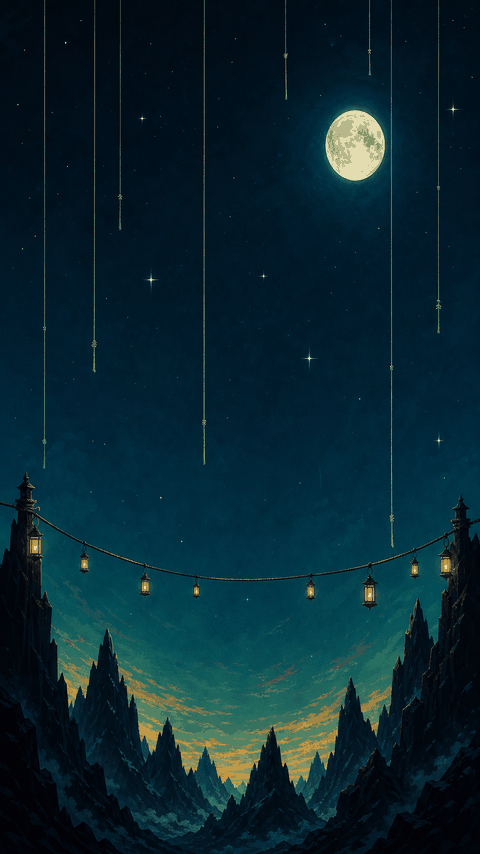
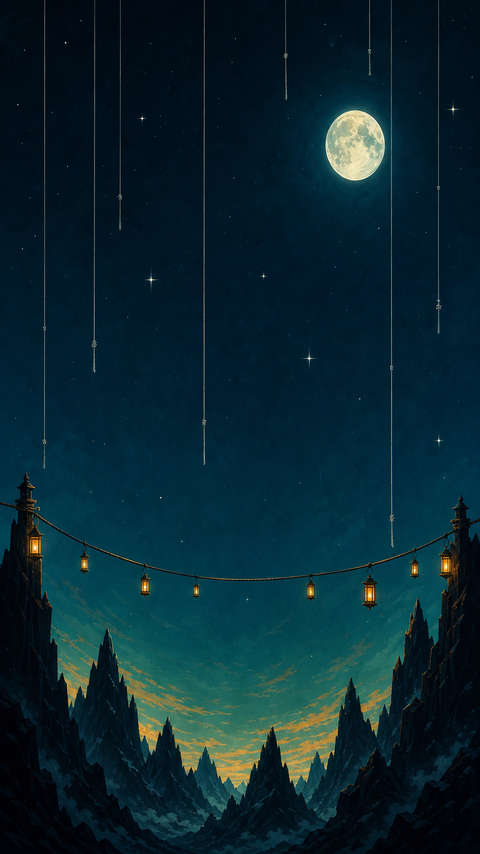
Polish retention and tip overlays to match premium UI
Replace stretched panel/oval buttons with solid rounded graphics so
overlays no longer glow or bleed the menu underneath.

diff --git a/src/game/ui/RetentionOverlay.ts b/src/game/ui/RetentionOverlay.ts
@@ -12,9 +12,20 @@ import {
 import { WEEKLY_SHARDS_NEEDED } from '@/content/retention';
 import { getSave } from '@/data/save';
 
+type ActionBtn = {
+  g: Phaser.GameObjects.Graphics;
+  label: Phaser.GameObjects.Text;
+  zone: Phaser.GameObjects.Zone;
+  x: number;
+  y: number;
+  w: number;
+  h: number;
+  relabel: () => string;
+  color: () => number;
+};
+
 /**
- * Retention hub — Zone hit targets (reliable on mobile) + compact copy
- * so body text never covers buttons.
+ * Retention hub — solid panel + graphics CTAs (no stretched oval blobs).
  */
 export class RetentionOverlay {
   private scene: Phaser.Scene;
@@ -23,8 +34,7 @@ export class RetentionOverlay {
   private feedback: Phaser.GameObjects.Text;
   private snap: RetentionSnapshot;
   private onChanged: () => void;
-  private actionLabels: { text: Phaser.GameObjects.Text; relabel: () => string }[] = [];
-  private actionBgs: { bg: Phaser.GameObjects.Image; tint: () => number }[] = [];
+  private actions: ActionBtn[] = [];
 
   constructor(scene: Phaser.Scene, onChanged: () => void) {
     this.scene = scene;
@@ -34,56 +44,65 @@ export class RetentionOverlay {
     this.root = scene.add.container(0, 0).setDepth(70).setVisible(false);
 
     const dim = scene.add
-      .rectangle(width / 2, height / 2, width, height, 0x000000, 0.72)
+      .rectangle(width / 2, height / 2, width, height, 0x020810, 0.78)
       .setInteractive();
     dim.on('pointerup', () => undefined);
 
-    const panel = scene.add
-      .image(width / 2, height / 2, 'ui-panel')
-      .setDisplaySize(width * 0.9, height * 0.82);
+    const pw = width * 0.88;
+    const ph = height * 0.78;
+    const px = width / 2;
+    const py = height / 2;
+    const panel = scene.add.graphics();
+    panel.fillStyle(0x0a1a28, 0.96);
+    panel.fillRoundedRect(px - pw / 2, py - ph / 2, pw, ph, 22);
+    panel.lineStyle(2, 0xffb347, 0.45);
+    panel.strokeRoundedRect(px - pw / 2, py - ph / 2, pw, ph, 22);
+    panel.fillStyle(0xffffff, 0.04);
+    panel.fillRoundedRect(px - pw / 2 + 10, py - ph / 2 + 10, pw - 20, 48, 14);
 
     const title = scene.add
-      .text(width / 2, height * 0.12, tf('retention'), {
+      .text(width / 2, height * 0.14, tf('retention'), {
         fontFamily: 'Fraunces, Georgia, serif',
         fontSize: '34px',
-        color: '#F7F3E8',
+        color: '#FFF8EC',
       })
       .setOrigin(0.5);
+    title.setShadow(0, 2, '#FFB347', 8, true, true);
 
     this.body = scene.add
-      .text(width / 2, height * 0.175, '', {
+      .text(width / 2, height * 0.2, '', {
         fontFamily: 'Outfit, sans-serif',
-        fontSize: '17px',
-        color: '#F7F3E8',
+        fontSize: '16px',
+        color: '#C9DDE8',
         align: 'center',
-        wordWrap: { width: width * 0.78 },
-        lineSpacing: 4,
+        wordWrap: { width: width * 0.74 },
+        lineSpacing: 5,
       })
       .setOrigin(0.5, 0);
 
     this.feedback = scene.add
       .text(width / 2, height * 0.4, '', {
         fontFamily: 'Outfit, sans-serif',
-        fontSize: '18px',
-        color: '#F4A261',
+        fontSize: '17px',
+        color: '#FFB347',
         align: 'center',
-        wordWrap: { width: width * 0.78 },
+        wordWrap: { width: width * 0.74 },
       })
       .setOrigin(0.5)
       .setAlpha(0);
 
-    const btnY = [0.48, 0.58, 0.68, 0.78];
-    const btnW = Math.min(360, width * 0.78);
-    const btnH = 60;
+    const btnY = [0.48, 0.575, 0.67, 0.765];
+    const btnW = Math.min(340, width * 0.74);
+    const btnH = 54;
 
-    const actions: {
+    const actionDefs: {
       label: () => string;
-      tint: () => number;
+      color: () => number;
       fn: () => Promise<string>;
     }[] = [
       {
         label: () => (this.snap.morningAvailable ? tf('morningClaim') : tf('morningDone')),
-        tint: () => (this.snap.morningAvailable ? 0xf4a261 : 0x9bb0c1),
+        color: () => (this.snap.morningAvailable ? 0xffb347 : 0x6b8194),
         fn: async () => {
           const r = await claimMorningFlame();
           playTone(r ? 'start' : 'ui');
@@ -99,11 +118,11 @@ export class RetentionOverlay {
           if (this.snap.challengeClaimed) return `${tf('claimed')} · ${p}`;
           return `${tf('challengeTitle')} · ${p}`;
         },
-        tint: () =>
+        color: () =>
           this.snap.challengeDone && !this.snap.challengeClaimed
-            ? 0x2a9d8f
+            ? 0x3db8a0
             : this.snap.challengeClaimed
-              ? 0x9bb0c1
+              ? 0x6b8194
               : 0xe9c46a,
         fn: async () => {
           if (this.snap.challengeDone && !this.snap.challengeClaimed) {
@@ -121,7 +140,6 @@ export class RetentionOverlay {
           const name = lang === 'ru' ? this.snap.challenge.nameRu : this.snap.challenge.nameEn;
           const p = `${Math.min(this.snap.challengeProgress, this.snap.challenge.target)}/${this.snap.challenge.target}`;
           if (this.snap.challengeClaimed) return tf('claimed');
-          // explain why it "doesn't claim" yet
           return `${name}\n${p}`;
         },
       },
@@ -130,7 +148,7 @@ export class RetentionOverlay {
           this.snap.idleSparks > 0
             ? `${tf('idleClaim')} +${this.snap.idleCoins}`
             : tf('idleEmpty'),
-        tint: () => (this.snap.idleSparks > 0 ? 0x8ecae6 : 0x9bb0c1),
+        color: () => (this.snap.idleSparks > 0 ? 0x7ec8e8 : 0x6b8194),
         fn: async () => {
           const coins = await collectIdle();
           playTone(coins > 0 ? 'collect' : 'ui', 3);
@@ -144,7 +162,7 @@ export class RetentionOverlay {
           const n = this.snap.unreadLetters.length;
           return n > 0 ? `${tf('lettersTitle')} · ${tf('letterNew')} ${n}` : tf('lettersTitle');
         },
-        tint: () => (this.snap.unreadLetters.length > 0 ? 0xf4a261 : 0x9bb0c1),
+        color: () => (this.snap.unreadLetters.length > 0 ? 0xffb347 : 0x6b8194),
         fn: async () => {
           const letter = this.snap.unreadLetters[0];
           if (letter) {
@@ -163,63 +181,86 @@ export class RetentionOverlay {
 
     const children: Phaser.GameObjects.GameObject[] = [dim, panel, title, this.body, this.feedback];
 
-    actions.forEach((action, i) => {
+    actionDefs.forEach((action, i) => {
+      const x = width / 2;
       const y = height * btnY[i];
-      const bg = scene.add.image(width / 2, y, 'ui-btn').setDisplaySize(btnW, btnH);
+      const g = scene.add.graphics();
       const label = scene.add
-        .text(width / 2, y, action.label(), {
+        .text(x, y, action.label(), {
           fontFamily: 'Outfit, sans-serif',
-          fontSize: '19px',
-          color: '#071018',
+          fontSize: '18px',
+          color: '#0C1C2E',
+          fontStyle: '600',
         })
         .setOrigin(0.5);
-      // Zone is the only interactive surface — full button size, reliable on mobile
-      const zone = scene.add.zone(width / 2, y, btnW, btnH).setInteractive({
-        useHandCursor: true,
-      });
-
-      zone.on('pointerdown', () => bg.setAlpha(0.85));
-      zone.on('pointerout', () => bg.setAlpha(1));
+      const zone = scene.add.zone(x, y, btnW, btnH).setInteractive({ useHandCursor: true });
+      const btn: ActionBtn = {
+        g,
+        label,
+        zone,
+        x,
+        y,
+        w: btnW,
+        h: btnH,
+        relabel: action.label,
+        color: action.color,
+      };
+      this.drawBtn(btn, false);
+      zone.on('pointerdown', () => this.drawBtn(btn, true));
+      zone.on('pointerout', () => this.drawBtn(btn, false));
       zone.on('pointerup', () => {
-        bg.setAlpha(1);
+        this.drawBtn(btn, false);
         void (async () => {
           const msg = await action.fn();
           this.showFeedback(msg);
-          this.paintButtonTints();
+          this.paintButtons();
         })();
       });
-
-      this.actionLabels.push({ text: label, relabel: action.label });
-      this.actionBgs.push({ bg, tint: action.tint });
-      children.push(bg, label, zone);
+      this.actions.push(btn);
+      children.push(g, label, zone);
     });
 
-    const closeW = 220;
-    const closeH = 52;
-    const closeBg = scene.add
-      .image(width / 2, height * 0.9, 'ui-btn')
-      .setDisplaySize(closeW, closeH)
-      .setTint(0xcbd5e1);
+    const closeW = 200;
+    const closeH = 48;
+    const closeY = height * 0.9;
+    const closeG = scene.add.graphics();
+    closeG.fillStyle(0x1a3044, 1);
+    closeG.fillRoundedRect(width / 2 - closeW / 2, closeY - closeH / 2, closeW, closeH, 14);
+    closeG.lineStyle(1.5, 0xa8e4f5, 0.35);
+    closeG.strokeRoundedRect(width / 2 - closeW / 2, closeY - closeH / 2, closeW, closeH, 14);
     const close = scene.add
-      .text(width / 2, height * 0.9, tf('close'), {
+      .text(width / 2, closeY, tf('close'), {
         fontFamily: 'Outfit, sans-serif',
-        fontSize: '22px',
-        color: '#071018',
+        fontSize: '20px',
+        color: '#E8F0F5',
       })
       .setOrigin(0.5);
-    const closeZone = scene.add.zone(width / 2, height * 0.9, closeW, closeH).setInteractive({
+    const closeZone = scene.add.zone(width / 2, closeY, closeW, closeH).setInteractive({
       useHandCursor: true,
     });
     closeZone.on('pointerup', () => this.hide());
-    children.push(closeBg, close, closeZone);
+    children.push(closeG, close, closeZone);
 
     this.root.add(children);
     this.refresh();
   }
 
-  private paintButtonTints(): void {
-    for (const row of this.actionBgs) {
-      row.bg.setTint(row.tint());
+  private drawBtn(btn: ActionBtn, pressed: boolean): void {
+    const { g, x, y, w, h } = btn;
+    const color = btn.color();
+    g.clear();
+    g.fillStyle(0x082030, 1);
+    g.fillRoundedRect(x - w / 2, y - h / 2 + 4, w, h, 16);
+    g.fillStyle(color, 1);
+    g.fillRoundedRect(x - w / 2, y - h / 2 + (pressed ? 2 : 0), w, h, 16);
+    g.fillStyle(0xffffff, 0.18);
+    g.fillRoundedRect(x - w / 2 + 12, y - h / 2 + (pressed ? 8 : 6), w - 24, 14, 8);
+  }
+
+  private paintButtons(): void {
+    for (const btn of this.actions) {
+      btn.label.setText(btn.relabel());
+      this.drawBtn(btn, false);
     }
   }
 
@@ -265,9 +306,6 @@ export class RetentionOverlay {
         .join('\n'),
     );
 
-    for (const row of this.actionLabels) {
-      row.text.setText(row.relabel());
-    }
-    this.paintButtonTints();
+    this.paintButtons();
   }
 }

diff --git a/src/game/scenes/MenuScene.ts b/src/game/scenes/MenuScene.ts
@@ -352,10 +352,14 @@ export class MenuScene extends Phaser.Scene {
     this.tipsOpen = true;
     const { width, height } = this.scale;
     const overlay = this.add.rectangle(width / 2, height / 2, width, height, 0x000000, 0.55).setDepth(50);
-    const panel = this.add
-      .image(width / 2, height / 2, 'ui-panel')
-      .setDisplaySize(width * 0.84, 400)
-      .setDepth(51);
+    // Soft amber depth under tip panel — no soft oval glow bake
+    const tipPanel = this.add.graphics().setDepth(51);
+    const pw = width * 0.84;
+    const ph = 400;
+    tipPanel.fillStyle(0x0a1a28, 0.96);
+    tipPanel.fillRoundedRect(width / 2 - pw / 2, height / 2 - ph / 2, pw, ph, 22);
+    tipPanel.lineStyle(2, 0xffb347, 0.45);
+    tipPanel.strokeRoundedRect(width / 2 - pw / 2, height / 2 - ph / 2, pw, ph, 22);
     const tip = this.add
       .text(
         width / 2,
@@ -400,7 +404,7 @@ export class MenuScene extends Phaser.Scene {
       this.tipsOpen = false;
       unlockAudio();
       overlay.destroy();
-      panel.destroy();
+      tipPanel.destroy();
       tip.destroy();
       okG.destroy();
       okHit.destroy();
